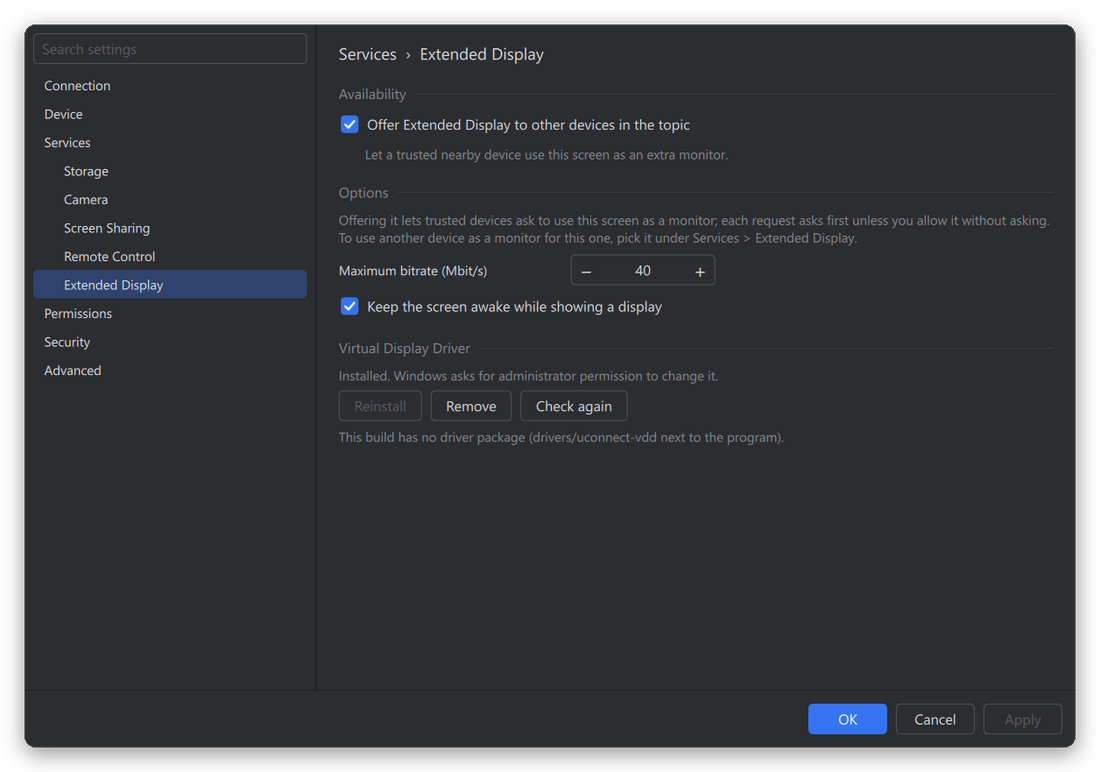
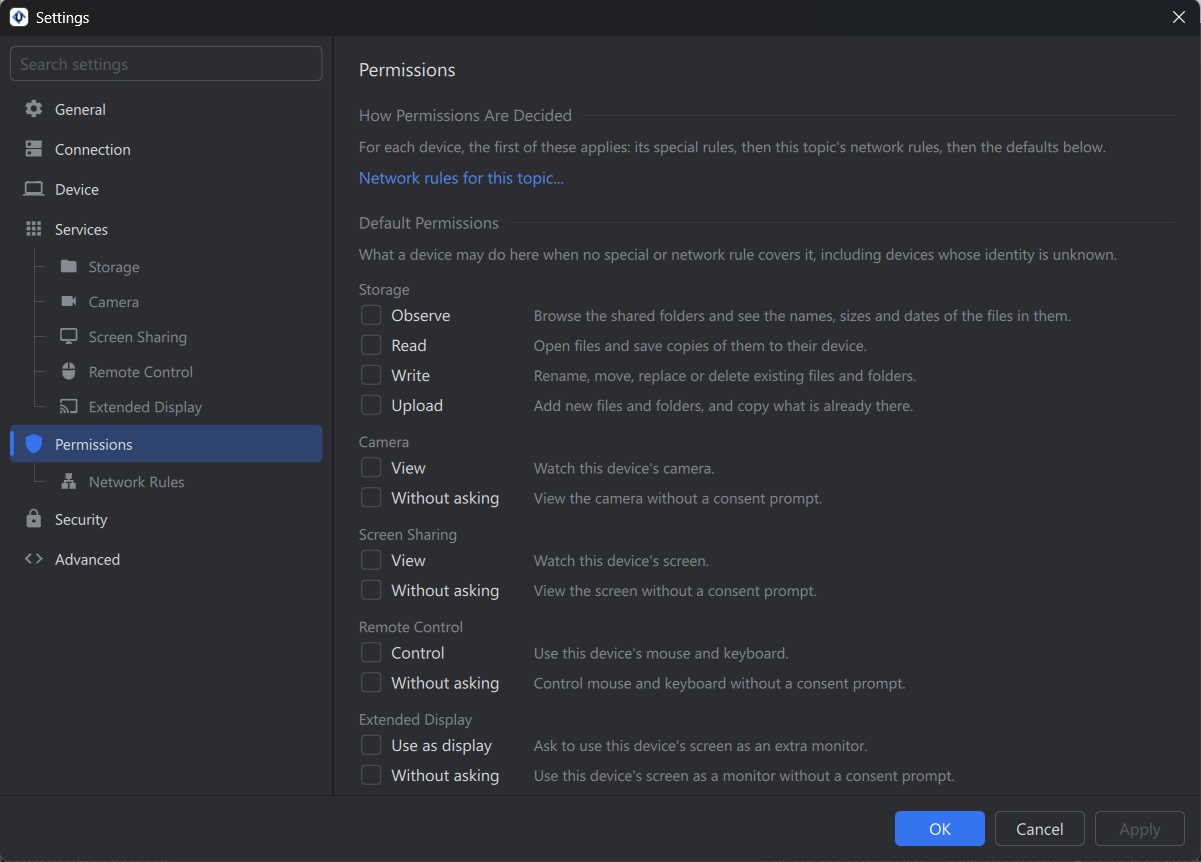
README: rules, sync, camera and phones; fresh screenshots and a tour

Changed region(s): [[0.0, 0.0, 1.0, 1.0], [0.2782, 0.0622, 0.9273, 0.2176], [0.4327, 0.6218, 0.68, 0.715]]

diff --git a/README.md b/README.md
@@ -26,16 +26,25 @@
 
 ## Features
 
-- **Devices you trust.** Devices meet in a *topic*, shared by an invite link.
-  Each verifies the others' fingerprints, then decides exactly what they may
-  do: every service is behind a permission.
+- **Topics and invite links.** Devices meet in a *topic*, shared by an
+  invite link, or a QR code a phone scans to open uConnect Mobile on it.
+- **Your rules, per device.** Every service is behind a permission, and for
+  each device the first of these applies: its **special rules** (permissions
+  of its own, added after checking its fingerprint), this topic's **network
+  rules** (ordered address patterns such as `m.m.m.x` for your own subnet,
+  matched against the address its direct connection comes from), then your
+  **defaults**. A device can copy another's rules for quick setup on a
+  trusted network.
 - **Storage.** Browse, download and upload files and whole folders in the
   folders a device shares, with read-only shares and a log of what others did.
-- **Folder sync.** Keep a folder the same on several devices, with conflicts
-  kept rather than overwritten.
-- **Screen sharing and remote control.** Each behind a consent prompt on the
-  sharing device, with a sharing bar and a hotkey to stop. Hardware
-  encoding (NVENC, VideoToolbox) where available.
+- **Folder sync.** Keep a folder the same on several devices, phones
+  included, with conflicts kept rather than overwritten. Only devices with
+  special rules take part.
+- **Screen, camera and remote control.** Share a screen or a camera, or be
+  controlled, each behind a consent prompt on the sharing device unless that
+  device's rules allow it without asking, with a sharing bar and a hotkey to
+  stop. Watch a phone's screen or camera, and control an Android phone.
+  Hardware encoding (NVENC, VideoToolbox) where available.
 - **Extended display.** A Windows or macOS computer gains a real extra monitor,
   shown full screen on another device: pick the resolution and refresh rate,
   or match the other screen. Windows uses the uConnect display driver
@@ -43,27 +52,40 @@
   the app; macOS needs nothing extra.
 - **Lives in the tray.** Closing the window keeps uConnect running in the
   system tray (the menu bar on macOS); it can start when you sign in.
-
-Camera sharing is in progress and not finished in this version.
+- **Color schemes.** Follow system, Dark, Darker, Light or Colorful.
 
 ### Screenshots
 
+<p align="center">
+  <img src="docs/images/tour.gif" width="760"
+       alt="Opening a phone's device tab, its services and context menu, then the settings pages">
+  <br><sub>A phone's device tab, what it lets you do, its menu, and the settings.</sub>
+</p>
+
 <table>
   <tr>
-    <td width="50%"><img src="docs/images/devices.png" alt="A trusted device, its connection and the permissions it has"></td>
+    <td width="50%"><img src="docs/images/device.png" alt="A phone with special rules: where it connects from, its fingerprint and what it may do"></td>
+    <td width="50%"><img src="docs/images/services.png" alt="What the phone lets this computer do, per service, with buttons to open each"></td>
+  </tr>
+  <tr>
+    <td align="center"><sub>A device: where it connects from, its fingerprint, the rules that apply</sub></td>
+    <td align="center"><sub>What it lets you do, service by service</sub></td>
+  </tr>
+  <tr>
+    <td width="50%"><img src="docs/images/settings.png" alt="Settings: default permissions, with the page tree on the left"></td>
+    <td width="50%"><img src="docs/images/menu.png" alt="A device's context menu in the Devices list"></td>
+  </tr>
+  <tr>
+    <td align="center"><sub>Default permissions, under Settings › Permissions</sub></td>
+    <td align="center"><sub>The Devices list: a shield marks special rules</sub></td>
+  </tr>
+  <tr>
     <td width="50%"><img src="docs/images/storage.png" alt="Browsing another device's shared folder"></td>
-  </tr>
-  <tr>
-    <td align="center"><sub>A trusted device: its connection, fingerprint and what it may do</sub></td>
-    <td align="center"><sub>Browsing a MacBook's shared folder from a Windows PC</sub></td>
-  </tr>
-  <tr>
     <td width="50%"><img src="docs/images/extended-display-setup.png" alt="Starting an extended display, and the other device's consent prompt"></td>
-    <td width="50%"><img src="docs/images/settings.png" alt="Settings for the extended display service"></td>
   </tr>
   <tr>
-    <td align="center"><sub>An extended display, running, and the prompt the other device sees first</sub></td>
-    <td align="center"><sub>Every service is opt-in, under Settings</sub></td>
+    <td align="center"><sub>Browsing a MacBook's shared folder from a Windows PC</sub></td>
+    <td align="center"><sub>An extended display, and the prompt the other device sees first</sub></td>
   </tr>
 </table>
 
@@ -91,9 +113,12 @@ library; the server is its `uconnect-rendezvous`.
 3. **Start uConnect** on each device and give it the server's address
    (`host:port`).
 4. On one device create a **New Topic** and send its invite link privately to
-   the others; they paste it and connect.
-5. **Trust** each other's devices after checking the fingerprints, then grant
-   the permissions you want under each device.
+   the others; they paste it and connect. A phone can scan it instead (Topic ›
+   Show Invite QR Code).
+5. On each device's tab, compare fingerprints and **add special rules** to
+   the devices you own, then choose what they may do. For a home network, a
+   network rule (Settings › Permissions › Network Rules) can cover them all
+   at once.
 
 The beta builds are not signed yet: on Windows, SmartScreen may ask for
 confirmation; on macOS, choose **Open Anyway** under System Settings → Privacy
@@ -109,6 +134,9 @@ confirmation; on macOS, choose **Open Anyway** under System Settings → Privacy
 | Gain an extended display | ✓ | ✓ | — |
 | Be an extended display   | ✓ | ✓ | ✓ |
 | Tray, start at sign-in   | ✓ | ✓ | ✓ (where the desktop has a tray) |
+
+Phones join the same topics with
+[uConnect Mobile](https://github.com/AbdoWise-z/uconnect-mobile) (Android).
 
 The Linux packages need glibc 2.39 or newer (Ubuntu 24.04 or as new). macOS
 asks for Screen Recording (and Accessibility, for being controlled) the first
